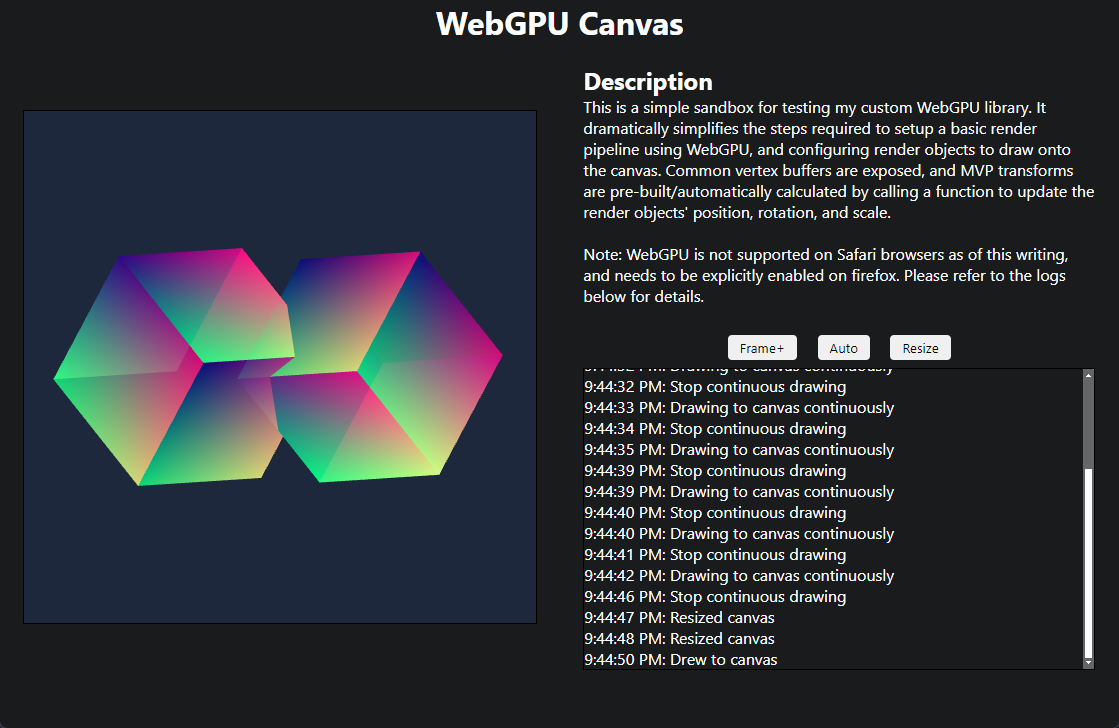
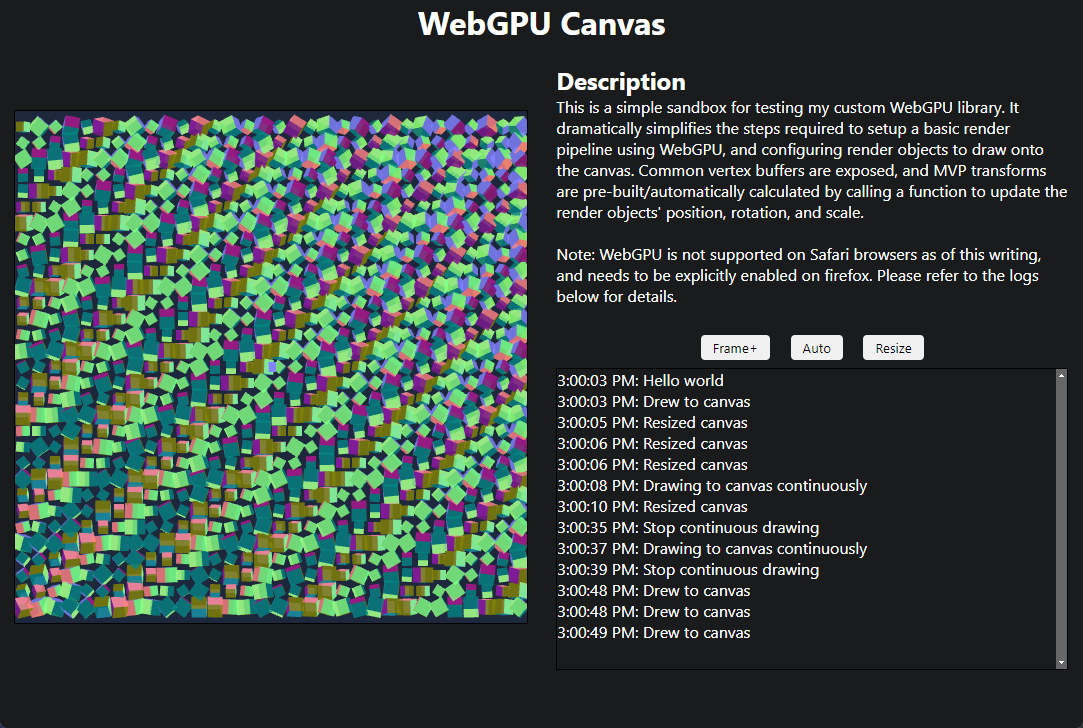
Added primitive helper fns + limit testing

diff --git a/src/renderer.ts b/src/renderer.ts
@@ -15,6 +15,12 @@ interface RenderPipeline {
   bindGroup: GPUBindGroup,
   bindEntries: Array<GPUBuffer>,
 }
+// shape data
+interface Shape {
+  vertices: Array<[number, number, number]>,
+  uvs: Array<[number, number]>,
+  normals: Array<[number, number, number]>,
+}
 //#endregion Types
 
 //#region Renderer Class
@@ -25,9 +31,14 @@ interface RenderPipeline {
  * 
  * ### Usage:
  * ```js
+ * import { Renderer, Primitive } from 'basic-webpu';
+ * 
  * const renderer = await Renderer.init(canvas);
  * const pipe1 = renderer.addPipeline2D(shader);
- * const obj1 = renderer.addObject2D(vertices);
+ * const shape = Primitive.cube(20);
+ * const obj1 = renderer.addObject2D(pipe1, shape.vertices, shape.uvs, shape.normals);
+ * renderer.update(obj1, [0, 10, 0]);
+ * 
  * renderer.draw();
  * ```
  */
@@ -202,7 +213,7 @@ class Renderer {
       depthStencil: {
         format: 'depth24plus',
         depthWriteEnabled: true,
-        depthCompare: 'less',
+        depthCompare: 'less-equal',
       },
       // primitive: {
       //   cullMode: 'back' // culls back-facing tris, breaks self-transparency
@@ -227,12 +238,12 @@ class Renderer {
       ]
     });
     // add to cache
-    const pipelineDyn: RenderPipeline = {
+    const pipe: RenderPipeline = {
       pipe: pipeline,
       bindGroup: bindGroup0,
       bindEntries: [mvpBuffer]
     };
-    this.pipelines.push(pipelineDyn);
+    this.pipelines.push(pipe);
     return (this.pipelines.length - 1);
   }
   // create buffers for render object
@@ -299,6 +310,7 @@ class Renderer {
       pipelineOffset: id,
     }
     this.objects.push(obj);
+    this.updateObject(id);
     return id;
   }
   // update buffers for render object
@@ -312,8 +324,9 @@ class Renderer {
   ) {
     if (!this.#device) throw new Error("Renderer not initialized");
     const obj = this.objects[id];
-    if (!obj) throw new Error(`Could not find pipeline id:${id}`);
+    if (!obj) throw new Error(`Could not find object ${id}`);
     const dpipe = this.pipelines[obj.pipelineIndex];
+    if (!dpipe) throw new Error(`Could not find pipeline ${obj.pipelineIndex}`);
     obj.visible = visible;
     // model matrix
     const modelt: Float32Array = Mat4.translate(translate[0], translate[1], translate[2]);
@@ -663,5 +676,89 @@ class Vec {
 }
 //#endregion Vector
 
+//#region Primitives
+/**
+ * Helper for building common shapes
+ */
+class Primitives {
+  static template(): Shape {
+    const vertices: Array<[number, number, number]> = [];
+    const uvs: Array<[number, number]> = [];
+    const normals: Array<[number, number, number]> = [];
+    return { vertices, uvs, normals }
+  }
+  static cube(width:number, height?:number, depth?:number): Shape {
+    const w = width/2;
+    const h = height ? height/2 : width/2;
+    const d = depth ? depth/2 : width/2;
+    const vertices: Array<[number, number, number]> = [
+      // face front
+      [w,h,d],[w,-h,d],[-w,-h,d],
+      [-w,-h,d],[-w,h,d],[w,h,d],
+      // face back
+      [-w,h,-d],[-w,-h,-d],[w,-h,-d],
+      [w,-h,-d],[w,h,-d],[-w,h,-d],
+      // face left
+      [-w,h,d],[-w,-h,d],[-w,-h,-d],
+      [-w,-h,-d],[-w,h,-d],[-w,h,d],
+      // face right
+      [w,h,-d],[w,-h,-d],[w,-h,d],
+      [w,-h,d],[w,h,d],[w,h,-d],
+      // face up
+      [w,-h,d],[w,-h,-d],[-w,-h,-d],
+      [-w,-h,-d],[-w,-h,d],[w,-h,d],
+      // face down
+      [w,h,-d],[w,h,d],[-w,h,d],
+      [-w,h,d],[-w,h,-d],[w,h,-d],
+    ];
+    const uvs: Array<[number, number]> = [
+      // face front
+      [1,1],[1,0],[0,0],[0,0],[0,1],[1,1],
+      // face back
+      [1,1],[1,0],[0,0],[0,0],[0,1],[1,1],
+      // face left
+      [1,1],[1,0],[0,0],[0,0],[0,1],[1,1],
+      // face right
+      [1,1],[1,0],[0,0],[0,0],[0,1],[1,1],
+      // face up
+      [1,1],[1,0],[0,0],[0,0],[0,1],[1,1],
+      // face down
+      [1,1],[1,0],[0,0],[0,0],[0,1],[1,1],
+    ];
+    const normals: Array<[number, number, number]> = [
+      // face front
+      [0,0,1],[0,0,1],[0,0,1],[0,0,1],[0,0,1],[0,0,1],
+      // face back
+      [0,0,-1],[0,0,-1],[0,0,-1],[0,0,-1],[0,0,-1],[0,0,-1],
+      // face left
+      [-1,0,0],[-1,0,0],[-1,0,0],[-1,0,0],[-1,0,0],[-1,0,0],
+      // face right
+      [1,0,0],[1,0,0],[1,0,0],[1,0,0],[1,0,0],[1,0,0],
+      // face up
+      [0,1,0],[0,1,0],[0,1,0],[0,1,0],[0,1,0],[0,1,0],
+      // face down
+      [0,-1,0],[0,-1,0],[0,-1,0],[0,-1,0],[0,-1,0],[0,-1,0],
+    ];
+    return { vertices, uvs, normals }
+  }
+  static rect(width:number, height:number, zIndex:number = 0): Shape {
+    const w = width / 2;
+    const h = height / 2;
+    const vertices: Array<[number, number, number]> = [
+      [w, h, zIndex],[w, -h, zIndex],[-w, -h, zIndex],
+      [-w, -h, zIndex],[-w, h, zIndex],[w, h, zIndex],
+    ];
+    const uvs: Array<[number, number]> = [
+      [1,1],[1,0],[0,0],
+      [0,0],[0,1],[1,1],
+    ];
+    const normals: Array<[number, number, number]> = [
+      [0,0,1],[0,0,1],[0,0,1],
+      [0,0,1],[0,0,1],[0,0,1]
+    ];
+    return { vertices, uvs, normals }
+  }
+}
+
 export default Renderer;
-export { Renderer, Mat4, Vec };
+export { Renderer, Mat4, Vec, Primitives };

diff --git a/src/main.ts b/src/main.ts
@@ -1,4 +1,4 @@
-import Renderer from './renderer';
+import { Renderer, Primitives } from './renderer';
 import shader from './basic.wgsl?raw';
 
 // get HTML elements
@@ -23,64 +23,52 @@ async function main() {
     // change background color
     renderer.updateClearRGB(30, 40, 60);
     // object properties
-    const size = 60;
-    const offset1: [number, number, number] = [90, 0, 0];
-    const offset2: [number, number, number] = [-90, 0, 0];
     const rotAxis1: [number, number, number] = [1, -1, 0.3];
     const rotAxis2: [number, number, number] = [-1, 1, 0.3];
+    const rotAxis3: [number, number, number] = [1, 0.3, -1];
+    const rotAxis4: [number, number, number] = [-1, 0.3, 1];
+    const rotAxis5: [number, number, number] = [0.3, 1, -1];
+    const rotAxis6: [number, number, number] = [0.3, -1, 1];
     let rot: number = 76;
-    let s1 = 1.2 + 0.4 * Math.sin(rot / 100);
-    let s2 = 1.2 + 0.4 * Math.cos(rot / 100);
     // create pipeline
-    const pipe1 = renderer.addPipeline(shader, 10);
+    const pipe1 = renderer.addPipeline(shader, 1000);
     // declare vertices to draw (in sets of tris)
-    const verts: Array<[number, number, number]> = [
-      // face front
-      [size,size,size],[size,-size,size],[-size,-size,size],
-      [-size,-size,size],[-size,size,size],[size,size,size],
-      // face back
-      [-size,size,-size],[-size,-size,-size],[size,-size,-size],
-      [size,-size,-size],[size,size,-size],[-size,size,-size],
-      // face left
-      [-size,size,size],[-size,-size,size],[-size,-size,-size],
-      [-size,-size,-size],[-size,size,-size],[-size,size,size],
-      // face right
-      [size,size,-size],[size,-size,-size],[size,-size,size],
-      [size,-size,size],[size,size,size],[size,size,-size],
-      // face up
-      [size,-size,size],[size,-size,-size],[-size,-size,-size],
-      [-size,-size,-size],[-size,-size,size],[size,-size,size],
-      // face down
-      [size,size,-size],[size,size,size],[-size,size,size],
-      [-size,size,size],[-size,size,-size],[size,size,-size],
-    ];
-    // declare uv setup
-    const uvs: Array<[number, number]> = [
-      // face front
-      [1,1],[1,0],[0,0],[0,0],[0,1],[1,1],
-      // face back
-      [1,1],[1,0],[0,0],[0,0],[0,1],[1,1],
-      // face left
-      [1,1],[1,0],[0,0],[0,0],[0,1],[1,1],
-      // face right
-      [1,1],[1,0],[0,0],[0,0],[0,1],[1,1],
-      // face up
-      [1,1],[1,0],[0,0],[0,0],[0,1],[1,1],
-      // face down
-      [1,1],[1,0],[0,0],[0,0],[0,1],[1,1],
-    ]
-    const obj1 = renderer.addObject(pipe1, verts, uvs);
-    const obj2 = renderer.addObject(pipe1, verts, uvs);
+    const cube = Primitives.cube(10, 10, 10);
+    for (let i=0; i<1000; i++) {
+      renderer.addObject(pipe1, cube.vertices, cube.uvs, cube.normals);
+    }
     // update obj parameters
     function update(redraw:boolean = false) {
       // update properties
-      if (!redraw) {
-        rot += 2;
-        s1 = 1.2 + 0.4 * Math.sin(rot / 100);
-        s2 = 1.2 + 0.4 * Math.cos(rot / 100);
+      if (!redraw) rot += 1;
+      for (let i=0; i<32; i++) {
+        for (let j=0; j<31; j++) {
+          const id: number = i*31 + j;
+          let raxis: [number, number, number] = [0, 0, 1];
+          switch((i+j) % 6) {
+            case 1:
+              raxis = rotAxis1;
+              break;
+            case 2:
+              raxis = rotAxis2;
+              break;
+            case 3:
+              raxis = rotAxis3;
+              break;
+            case 4:
+              raxis = rotAxis4;
+              break;
+            case 5:
+              raxis = rotAxis5;
+              break;
+            default:
+              raxis = rotAxis6;
+              break;
+          }
+          const s = (i*j) % 4 ? 1 : 1.5;
+          renderer.updateObject(id, [248 - i * 16, 240 - j * 16, 0], raxis, rot + j * 3 - i * 3, [s, s, s]);
+        }
       }
-      renderer.updateObject(obj1, offset1, rotAxis1, rot, [s1, s1, s1]);
-      renderer.updateObject(obj2, offset2, rotAxis2, rot, [s2, s2, s2]);
       // render to canvas
       renderer.draw();
     }

diff --git a/README.md b/README.md
@@ -13,7 +13,9 @@ Features:
 - intakes uv buffer for VBO
 - intakes normal buffer for VBO
 
-<img src="public/screenshot.png" width="600px" />
+<img src="public/screenshot.png" width="700px" />
+
+1000 cubes with varying transforms, MSAA, and transparency, renders with 2ms GPU computation time
 
 ### Acknowledgements
 
